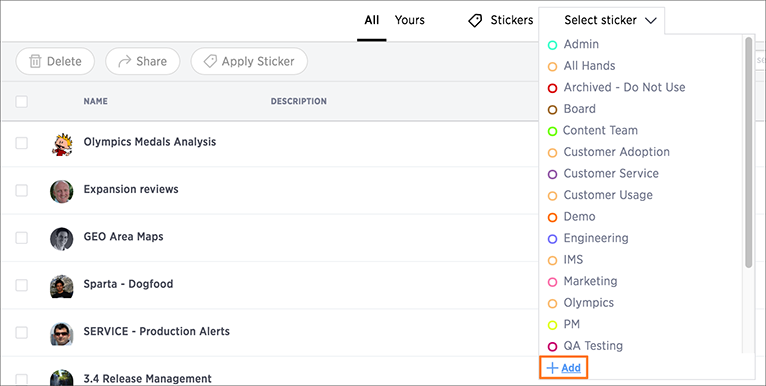
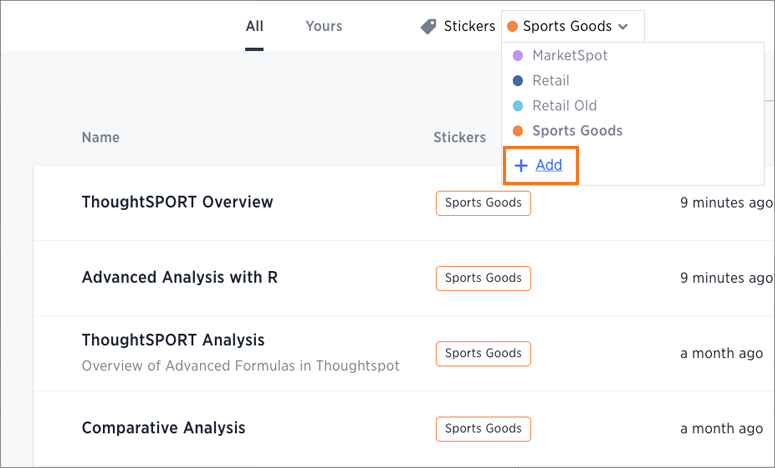
updated add_sticker and edit_sticker screenshots and added edit_color screenshot.

diff --git a/_includes/content/stickers.html b/_includes/content/stickers.html
@@ -17,15 +17,20 @@
 <ol>
  <li>Navigate to the <strong>Manage Data</strong> or <strong>Pinboards</strong> screen using the icons in the top navigation bar.</li>
  <li>
-   <p>Choose <strong>Select sticker</strong>, scroll to the bottom of the list, and click <strong>+ Add</strong>.</p>
+   <p>Choose the currently selected sticker, scroll to the bottom of the list, and click <strong>+ Add</strong>.</p>
 
    <p><img src="{{"/images/add_sticker.png" | prepend: site.baseurl }}" alt="" title="Add a sticker" /></p>
  </li>
  <li>Type the name for the new sticker.</li>
  <li>
-   <p>You can change the name or color of a sticker by clicking the edit icon next to its name.</p>
+   <p>You can change the name of a sticker by clicking the edit icon next to its name.</p>
 
    <p><img src="{{"/images/edit_sticker.png" | prepend: site.baseurl }}" alt="" title="Edit a sticker" /></p>
+ </li>
+ <li>
+   <p>You can change the color of a sticker by clicking the color circle next to its name.</p>
+
+   <p><img src="{{"/images/edit_color.png" | prepend: site.baseurl }}" alt="" title="Edit a sticker color" /></p>
  </li>
 </ol>
 
